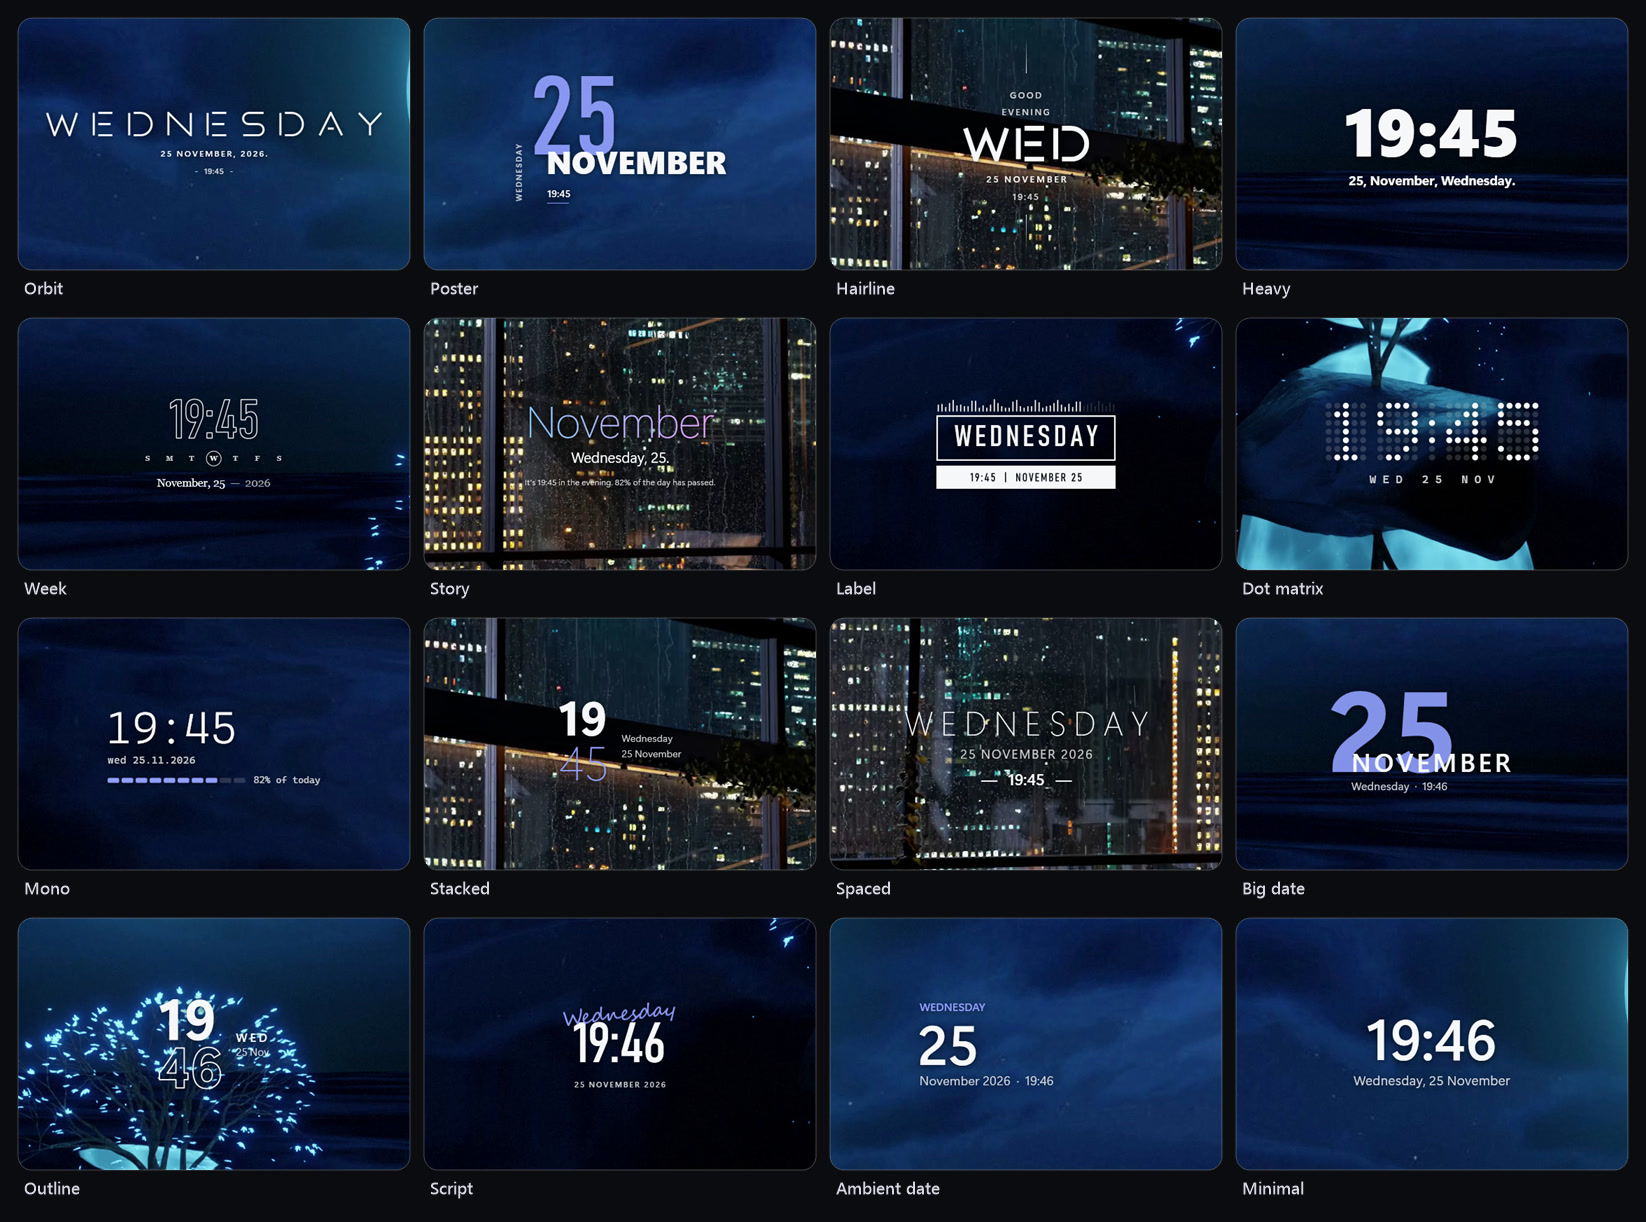
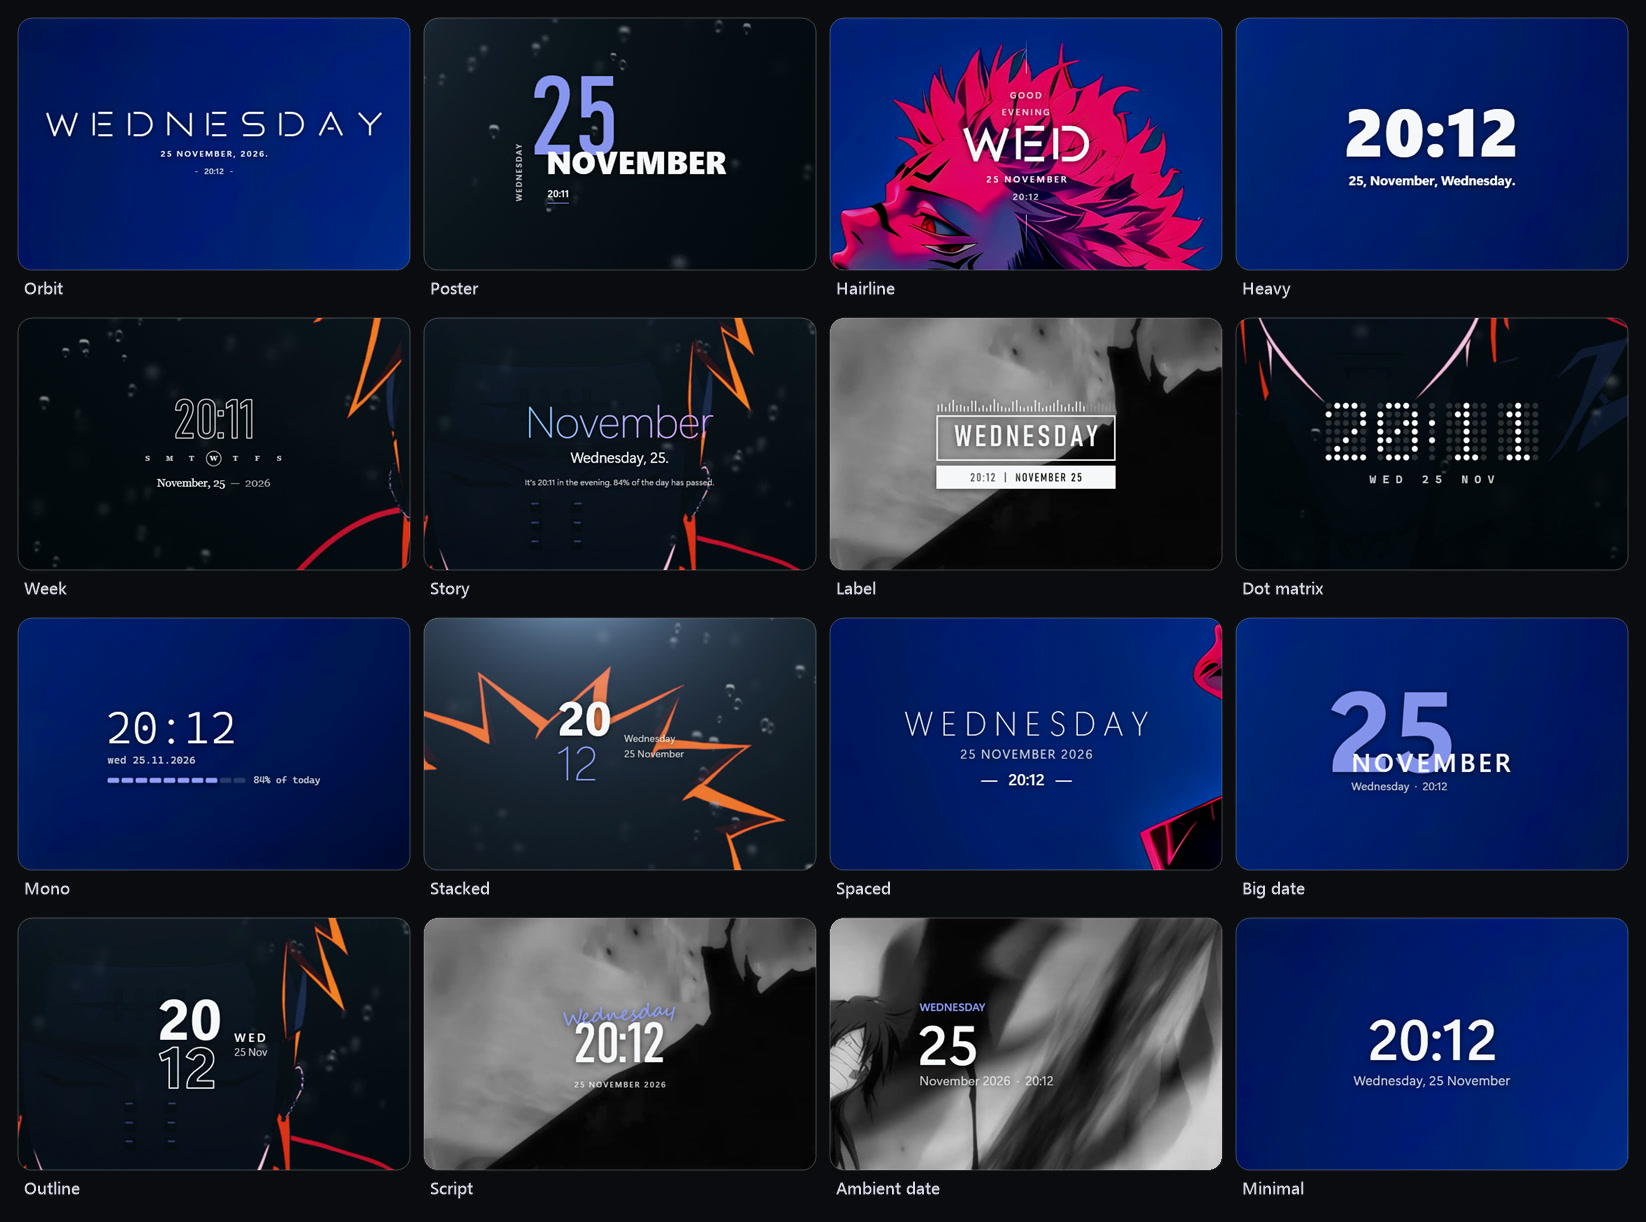
README: anime wallpapers and proof of the liquid lens
The pictures are reshot over anime wallpapers, and the liquid glass shot now shows the glass clear (no album tint)
plus a close-up of the same corner with the lens off and on.

diff --git a/README.md b/README.md
@@ -34,25 +34,25 @@
 
 <table>
   <tr>
-    <td colspan="2"><img src="docs/assets/shot-liquid.jpg" alt="The island opened in the Liquid Clear theme: on the left the now-playing panel over a black-hole wallpaper, on the right the Control Centre over a full moon, both bending the wallpaper at their thick, rounded rims"></td>
+    <td colspan="2"><img src="docs/assets/shot-liquid.jpg" alt="The island opened in the Liquid Clear theme: the Control Centre over a colourful fantasy wallpaper and the now-playing panel over an anime portrait, both clear enough to see the art through. Below, a close-up of the same corner with the liquid lens off (a flat pane) and on (the rim bends the art behind it, with a prism fringe)"></td>
   </tr>
   <tr>
-    <td colspan="2"><b>True liquid glass</b><br><sub>Liquid Clear and Liquid Frosted bend the wallpaper at a thick, rounded rim with a hint of prism, like a real lens. Runs on the graphics card.</sub></td>
+    <td colspan="2"><b>True liquid glass</b><br><sub>Liquid Clear is nearly clear glass with a thick, rounded rim that bends the wallpaper like a real lens, with a hint of prism. Bottom: the same corner with the lens off and on. Runs on the graphics card.</sub></td>
   </tr>
   <tr>
-    <td colspan="2"><img src="docs/assets/shot-desktop.jpg" alt="A whole desktop in the Orbit set: WEDNESDAY in wide Orbit letters, a music line and what's playing under it, CPU, RAM and GPU as slashes in the corner, and the island showing a song, over a sunset drive wallpaper"></td>
+    <td colspan="2"><img src="docs/assets/shot-desktop.jpg" alt="A whole desktop in the Orbit set: WEDNESDAY in wide Orbit letters, a music line and what's playing under it, CPU, RAM and GPU as slashes in the corner, and the island showing a song, over an anime wallpaper"></td>
   </tr>
   <tr>
     <td colspan="2"><b>Widgets that live on your wallpaper</b><br><sub>The Orbit set: clock, music line, now playing and system pieces drawn straight on the wallpaper, their ink following what's under them.</sub></td>
   </tr>
   <tr>
-    <td colspan="2"><img src="docs/assets/shot-sets.jpg" alt="Six desktops: the Orbit, Poster, Terminal, Heavy night and Hairline desktop sets and the Lo-fi profile, each over a different wallpaper"></td>
+    <td colspan="2"><img src="docs/assets/shot-sets.jpg" alt="Six desktops: the Orbit, Poster, Terminal, Heavy night and Hairline desktop sets and the Lo-fi profile, each over a different anime wallpaper"></td>
   </tr>
   <tr>
     <td colspan="2"><b>Desktop sets and profiles</b><br><sub>A whole look in one click: a clock skin with its matching pieces, a theme and the island's glance. Share yours as a <code>.winorbitset</code> file.</sub></td>
   </tr>
   <tr>
-    <td colspan="2"><img src="docs/assets/shot-clocks.jpg" alt="Sixteen clock styles over a wallpaper: Orbit, Poster, Hairline, Heavy, Week, Story, Label, Dot matrix, Mono, Stacked, Spaced, Big date, Outline, Script, Ambient date and Minimal"></td>
+    <td colspan="2"><img src="docs/assets/shot-clocks.jpg" alt="Sixteen clock styles over anime wallpapers: Orbit, Poster, Hairline, Heavy, Week, Story, Label, Dot matrix, Mono, Stacked, Spaced, Big date, Outline, Script, Ambient date and Minimal"></td>
   </tr>
   <tr>
     <td colspan="2"><b>Seventeen clock styles</b><br><sub>Sixteen of them here, from Orbit letters to an LED dot matrix, picked from a live gallery.</sub></td>
@@ -116,7 +116,7 @@
   <br><sub>13 themes, 8 rim colours, 5 shapes, 5 surfaces and 3 sizes. Six of the themes, each with one of the island's live cards.</sub>
 </p>
 
-<sub>Screenshots: the island at 1.25× to 1.4× size, using WinOrbit's built-in previews. The songs are demo tracks with made-up names, the calendar events are made up and the weather shows Tokyo. Wallpapers are frames of Wallpaper Engine wallpapers (Sunset Drive by Visualdon, Eternal sunset, Ultrawide Singularity, Luxury Rain Apartment and others); credit to their creators.</sub>
+<sub>Screenshots: the island at 1.25× to 1.4× size, using WinOrbit's built-in previews. The songs are demo tracks with made-up names, the calendar events are made up and the weather shows Tokyo. Wallpapers are frames of Wallpaper Engine wallpapers from the Steam Workshop (Spirit Blossom Kindred, Minimal Sukuna 4K, Pain Yahiko, Samurai vs ShadowDragon, Ichigo Bleach, Itadori Yuji, Goku Ultra Instinct); credit to their artists and creators.</sub>
 
 ---
 
